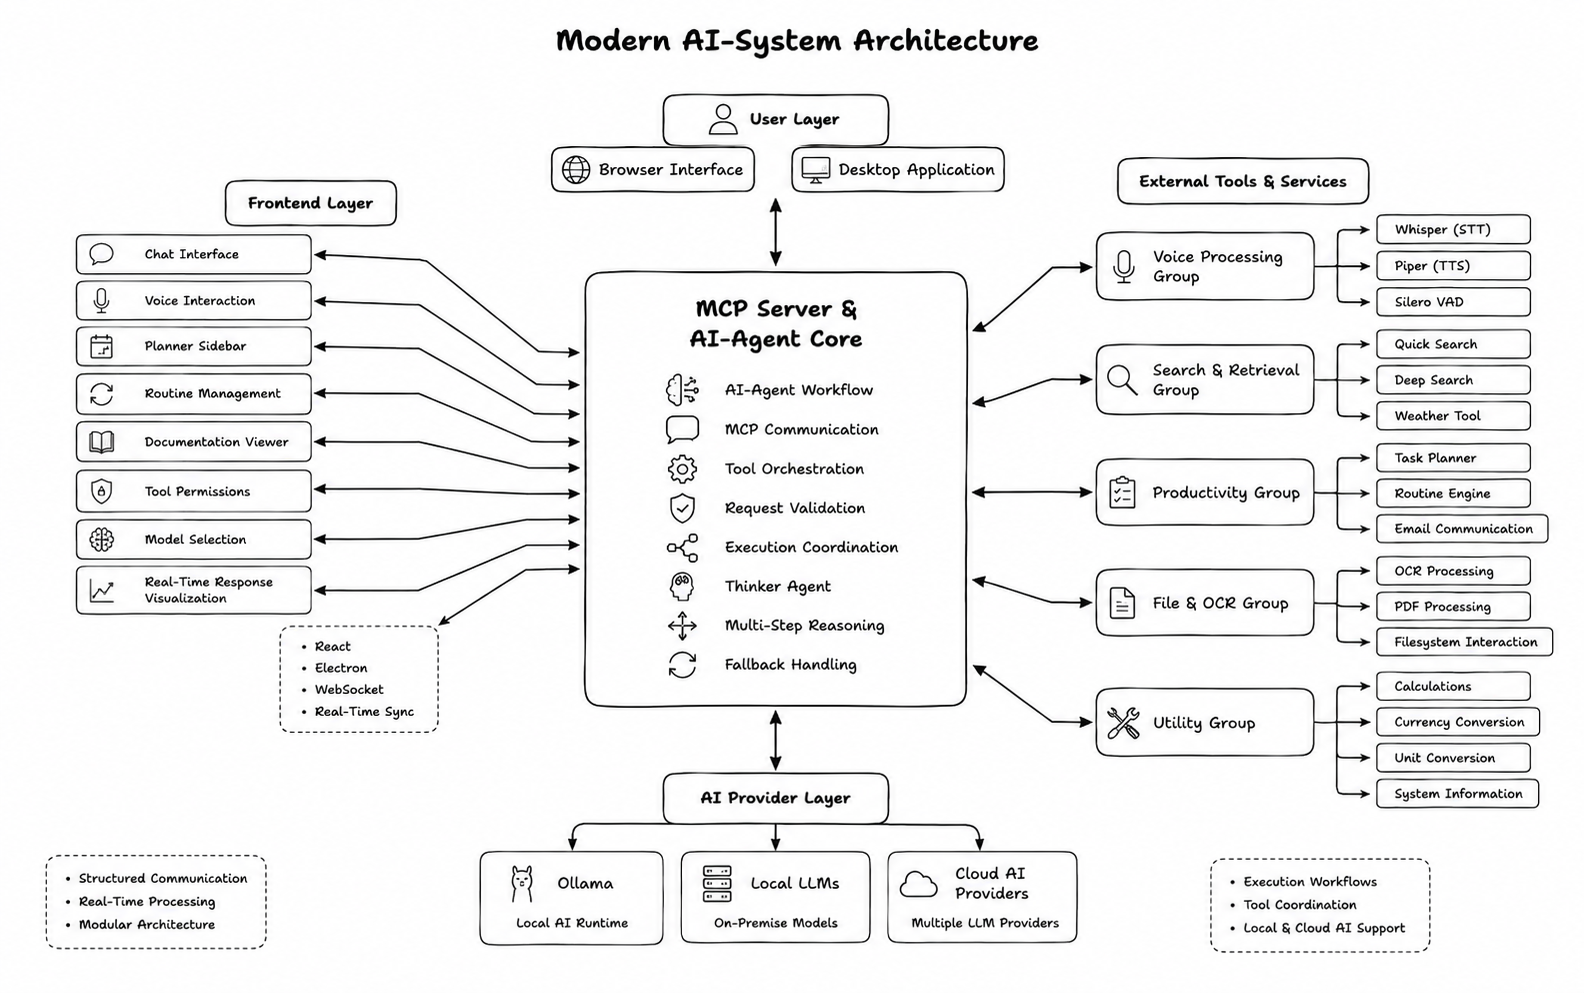
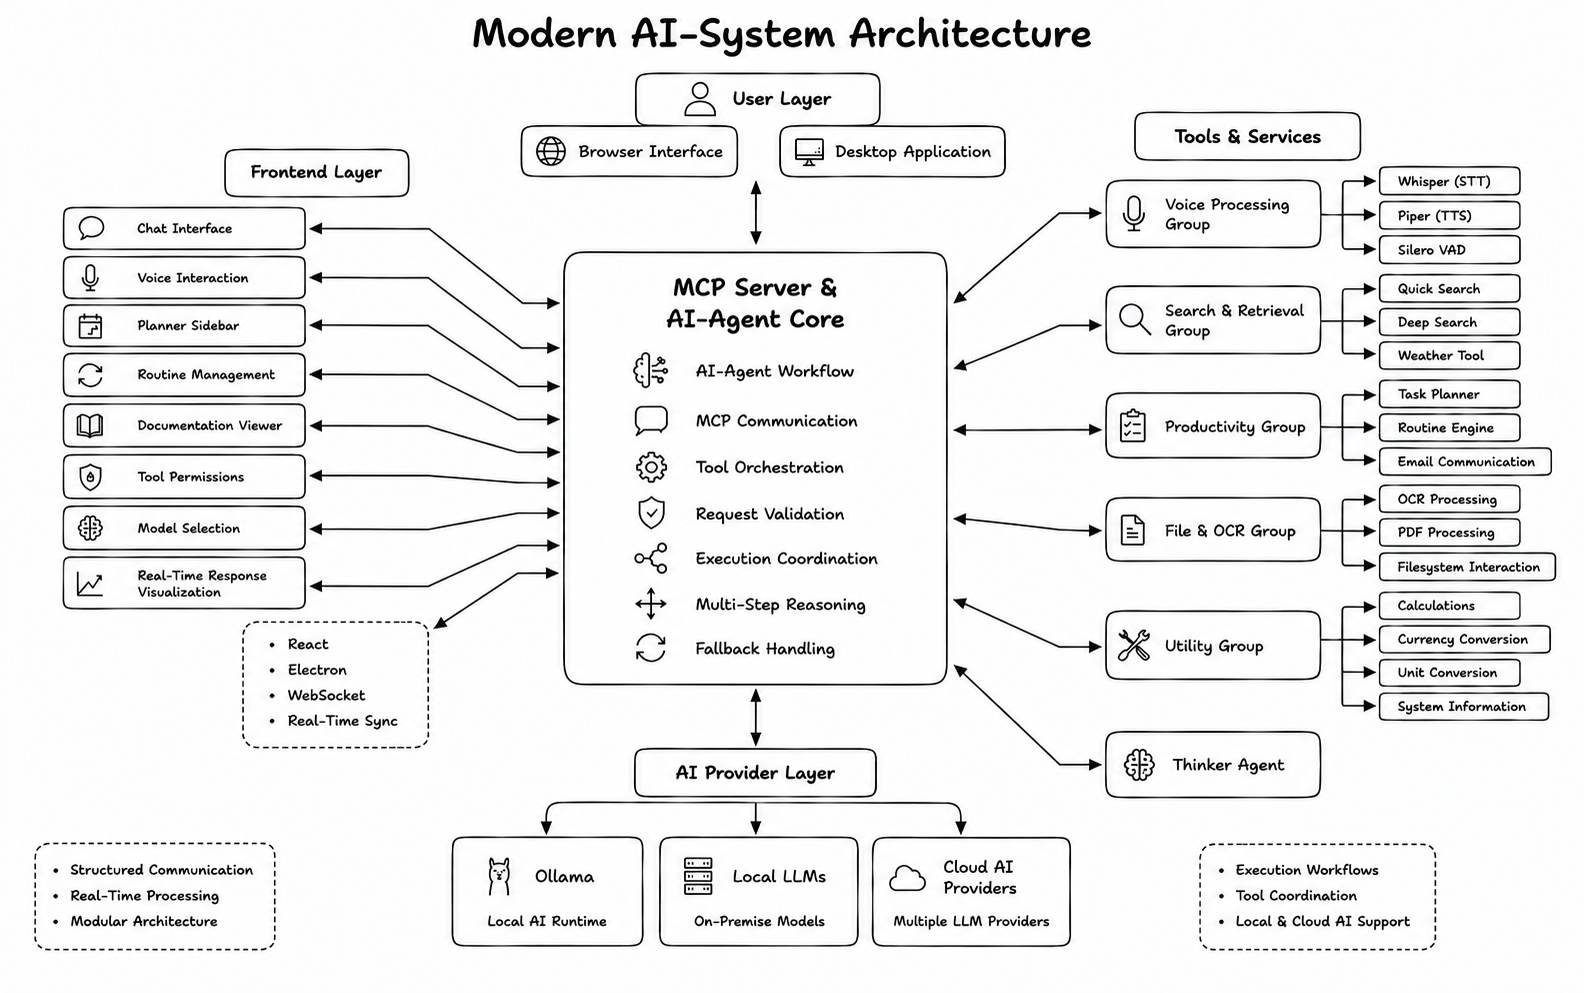
feat: add comprehensive documentation components and assets for system features and file handling workflows.

diff --git a/AI_Chatbot/src/docs/ToolsSystem.jsx b/AI_Chatbot/src/docs/ToolsSystem.jsx
@@ -1,3 +1,4 @@
+import { useState } from "react";
 import { Wrench, ShieldCheck, ToggleRight, AlertCircle, ArrowRight } from "lucide-react";
 import { Link } from "react-router-dom";
 import ToolsPreview from "../assets/tools-preview.mp4";
@@ -75,6 +76,7 @@ const CATEGORY_COLORS = {
 };
 
 export default function ToolsSystem() {
+    const [isOpen, setIsOpen] = useState(false);
     return (
         <div className="space-y-14">
             {/* Header */}
@@ -170,7 +172,10 @@ export default function ToolsSystem() {
                     </p>
                 </div>
 
-                <div className="rounded-xl overflow-hidden border border-zinc-200 dark:border-neutral-800 bg-white dark:bg-neutral-900">
+                <div
+                    onClick={() => setIsOpen(true)}
+                    className="rounded-xl overflow-hidden border border-zinc-200 dark:border-neutral-800 bg-white dark:bg-neutral-900 cursor-pointer"
+                >
                     <video
                         autoPlay
                         loop
@@ -178,13 +183,31 @@ export default function ToolsSystem() {
                         playsInline
                         disablePictureInPicture
                         controls={false}
-                        controlsList="nodownload nofullscreen noremoteplayback"
-                        className="w-full object-cover pointer-events-none transition-transform duration-300 hover:scale-[1.01]"
+                        className="w-full object-cover transition-transform duration-300 hover:scale-[1.01]"
                     >
                         <source src={ToolsPreview} type="video/mp4" />
                     </video>
                 </div>
             </section>
+
+            {/* Fullscreen Preview */}
+            {isOpen && (
+                <div
+                    onClick={() => setIsOpen(false)}
+                    className="fixed inset-0 z-50 bg-black/80 backdrop-blur-sm flex items-center justify-center p-4"
+                >
+                    <video
+                        autoPlay
+                        loop
+                        muted
+                        playsInline
+                        controls
+                        className="w-auto h-auto max-w-[85vw] max-h-[85vh] object-contain rounded-xl shadow-2xl"
+                    >
+                        <source src={ToolsPreview} type="video/mp4" />
+                    </video>
+                </div>
+            )}
 
             {/* Reset tip */}
             <section className="rounded-xl border border-zinc-300 dark:border-neutral-700/50 bg-zinc-100 dark:bg-neutral-800/30 p-5 flex gap-4">

diff --git a/AI_Chatbot/src/docs/FilesUploads.jsx b/AI_Chatbot/src/docs/FilesUploads.jsx
@@ -1,3 +1,4 @@
+import { useState } from "react";
 import { FolderOpen, FileText, ImageIcon, AlertCircle, ArrowRight, Upload, Eye } from "lucide-react";
 import { Link } from "react-router-dom";
 import UploadPreview from "../assets/upload-files-preview.mp4";
@@ -59,6 +60,7 @@ const TIPS = [
 ];
 
 export default function FilesUploads() {
+    const [isOpen, setIsOpen] = useState(false);
     return (
         <div className="space-y-14">
             {/* Header */}
@@ -118,7 +120,7 @@ export default function FilesUploads() {
                         </div>
                     ))}
                 </div>
-            </section> 
+            </section>
 
             {/* Upload Files Preview */}
             <section className="space-y-3">
@@ -132,7 +134,10 @@ export default function FilesUploads() {
                     </p>
                 </div>
 
-                <div className="rounded-xl overflow-hidden border border-zinc-200 dark:border-neutral-800 bg-white dark:bg-neutral-900">
+                <div
+                    onClick={() => setIsOpen(true)}
+                    className="rounded-xl overflow-hidden border border-zinc-200 dark:border-neutral-800 bg-white dark:bg-neutral-900 cursor-pointer"
+                >
                     <video
                         autoPlay
                         loop
@@ -147,6 +152,25 @@ export default function FilesUploads() {
                     </video>
                 </div>
             </section>
+
+            {/* Fullscreen Preview */}
+            {isOpen && (
+                <div
+                    onClick={() => setIsOpen(false)}
+                    className="fixed inset-0 z-50 bg-black/80 backdrop-blur-sm flex items-center justify-center p-4"
+                >
+                    <video
+                        autoPlay
+                        loop
+                        muted
+                        playsInline
+                        controls
+                        className="w-auto h-auto max-w-[85vw] max-h-[85vh] object-contain rounded-xl shadow-2xl"
+                    >
+                        <source src={UploadPreview} type="video/mp4" />
+                    </video>
+                </div>
+            )}
 
             {/* Tips */}
             <section>

diff --git a/AI_Chatbot/src/docs/ThinkerMode.jsx b/AI_Chatbot/src/docs/ThinkerMode.jsx
@@ -1,3 +1,4 @@
+import { useState } from "react";
 import { Brain, AlertCircle, ArrowRight, Lightbulb } from "lucide-react";
 import { Link } from "react-router-dom";
 import ThinkerPreview from "../assets/Thinker-preview.mp4";
@@ -26,6 +27,7 @@ const MODES = [
 ];
 
 export default function ThinkerMode() {
+    const [isOpen, setIsOpen] = useState(false);
     return (
         <div className="space-y-14">
             {/* Header */}
@@ -102,7 +104,10 @@ export default function ThinkerMode() {
                     </p>
                 </div>
 
-                <div className="rounded-xl overflow-hidden border border-zinc-200 dark:border-neutral-800 bg-white dark:bg-neutral-900">
+                <div
+                    onClick={() => setIsOpen(true)}
+                    className="rounded-xl overflow-hidden border border-zinc-200 dark:border-neutral-800 bg-white dark:bg-neutral-900 cursor-pointer"
+                >
                     <video
                         autoPlay
                         loop
@@ -117,6 +122,25 @@ export default function ThinkerMode() {
                     </video>
                 </div>
             </section>
+
+            {/* Fullscreen Preview */}
+            {isOpen && (
+                <div
+                    onClick={() => setIsOpen(false)}
+                    className="fixed inset-0 z-50 bg-black/80 backdrop-blur-sm flex items-center justify-center p-4"
+                >
+                    <video
+                        autoPlay
+                        loop
+                        muted
+                        playsInline
+                        controls
+                        className="w-auto h-auto max-w-[85vw] max-h-[85vh] object-contain rounded-xl shadow-2xl"
+                    >
+                        <source src={ThinkerPreview} type="video/mp4" />
+                    </video>
+                </div>
+            )}
 
 
             {/* Note */}

diff --git a/AI_Chatbot/src/docs/VoiceAssistant.jsx b/AI_Chatbot/src/docs/VoiceAssistant.jsx
@@ -1,3 +1,4 @@
+import { useState } from "react";
 import { Mic, Volume2, Brain, AlertCircle, ArrowRight } from "lucide-react";
 import { Link } from "react-router-dom";
 import VoicePreview from "../assets/Voice-preview.mp4";
@@ -59,6 +60,7 @@ const VOICE_STATES = [
 ];
 
 export default function VoiceAssistant() {
+    const [isOpen, setIsOpen] = useState(false);
     return (
         <div className="space-y-14">
             {/* Header */}
@@ -130,7 +132,10 @@ export default function VoiceAssistant() {
                     </p>
                 </div>
 
-                <div className="rounded-xl overflow-hidden border border-zinc-200 dark:border-neutral-800 bg-white dark:bg-neutral-900">
+                <div
+                    onClick={() => setIsOpen(true)}
+                    className="rounded-xl overflow-hidden border border-zinc-200 dark:border-neutral-800 bg-white dark:bg-neutral-900 cursor-pointer"
+                >
                     <video
                         autoPlay
                         loop
@@ -145,6 +150,25 @@ export default function VoiceAssistant() {
                     </video>
                 </div>
             </section>
+
+            {/* Fullscreen Preview */}
+            {isOpen && (
+                <div
+                    onClick={() => setIsOpen(false)}
+                    className="fixed inset-0 z-50 bg-black/80 backdrop-blur-sm flex items-center justify-center p-4"
+                >
+                    <video
+                        autoPlay
+                        loop
+                        muted
+                        playsInline
+                        controls
+                        className="w-auto h-auto max-w-[85vw] max-h-[85vh] object-contain rounded-xl shadow-2xl"
+                    >
+                        <source src={VoicePreview} type="video/mp4" />
+                    </video>
+                </div>
+            )}
 
             {/* Activating voice mode */}
             <section>

diff --git a/AI_Chatbot/src/docs/tools/Email.jsx b/AI_Chatbot/src/docs/tools/Email.jsx
@@ -1,3 +1,4 @@
+import { useState } from "react";
 import { Mail, Send, AtSign, ArrowRight, ShieldCheck, AlertCircle } from "lucide-react";
 import { Link } from "react-router-dom";
 import EmailPreview from "../../assets/email-preview.mp4";
@@ -16,6 +17,7 @@ const EXAMPLE_QUERIES = [
 ];
 
 export default function Email() {
+    const [isOpen, setIsOpen] = useState(false);
     return (
         <div className="space-y-14">
             <section className="space-y-4">
@@ -86,7 +88,10 @@ export default function Email() {
                     </p>
                 </div>
 
-                <div className="rounded-xl overflow-hidden border border-zinc-200 dark:border-neutral-800 bg-white dark:bg-neutral-900">
+                <div
+                    onClick={() => setIsOpen(true)}
+                    className="rounded-xl overflow-hidden border border-zinc-200 dark:border-neutral-800 bg-white dark:bg-neutral-900 cursor-pointer"
+                >
                     <video
                         autoPlay
                         loop
@@ -101,6 +106,25 @@ export default function Email() {
                     </video>
                 </div>
             </section>
+
+            {/* Fullscreen Preview */}
+            {isOpen && (
+                <div
+                    onClick={() => setIsOpen(false)}
+                    className="fixed inset-0 z-50 bg-black/80 backdrop-blur-sm flex items-center justify-center p-4"
+                >
+                    <video
+                        autoPlay
+                        loop
+                        muted
+                        playsInline
+                        controls
+                        className="w-auto h-auto max-w-[85vw] max-h-[85vh] object-contain rounded-xl shadow-2xl"
+                    >
+                        <source src={EmailPreview} type="video/mp4" />
+                    </video>
+                </div>
+            )}
 
             <section>
                 <h2 className="text-base font-semibold text-zinc-800 dark:text-neutral-200 mb-2">Example Usage</h2>

diff --git a/AI_Chatbot/src/docs/tools/WebSearch.jsx b/AI_Chatbot/src/docs/tools/WebSearch.jsx
@@ -38,6 +38,7 @@ const EXAMPLE_QUERIES = [
 
 export default function DeepSearch() {
     const [activePreview, setActivePreview] = useState(0);
+    const [isOpen, setIsOpen] = useState(false);
 
     const previewImages = [
         Preview1,
@@ -125,7 +126,10 @@ export default function DeepSearch() {
 
                 <div className="space-y-3">
                     {/* Main Preview */}
-                    <div className="rounded-xl overflow-hidden border border-zinc-200 dark:border-neutral-800 bg-white dark:bg-neutral-900">
+                    <div
+                        onClick={() => setIsOpen(true)}
+                        className="rounded-xl overflow-hidden border border-zinc-200 dark:border-neutral-800 bg-white dark:bg-neutral-900 cursor-pointer"
+                    >
                         <video
                             key={activePreview}
                             autoPlay
@@ -170,6 +174,25 @@ export default function DeepSearch() {
                     </div>
                 </div>
             </section>
+
+            {/* Fullscreen Preview */}
+            {isOpen && (
+                <div
+                    onClick={() => setIsOpen(false)}
+                    className="fixed inset-0 z-50 bg-black/80 backdrop-blur-sm flex items-center justify-center p-4"
+                >
+                    <video
+                        autoPlay
+                        loop
+                        muted
+                        playsInline
+                        controls
+                        className="w-auto h-auto max-w-[85vw] max-h-[85vh] object-contain rounded-xl shadow-2xl"
+                    >
+                        <source src={Preview2} type="video/mp4" />
+                    </video>
+                </div>
+            )}
 
             {/* Example queries */}
             <section>